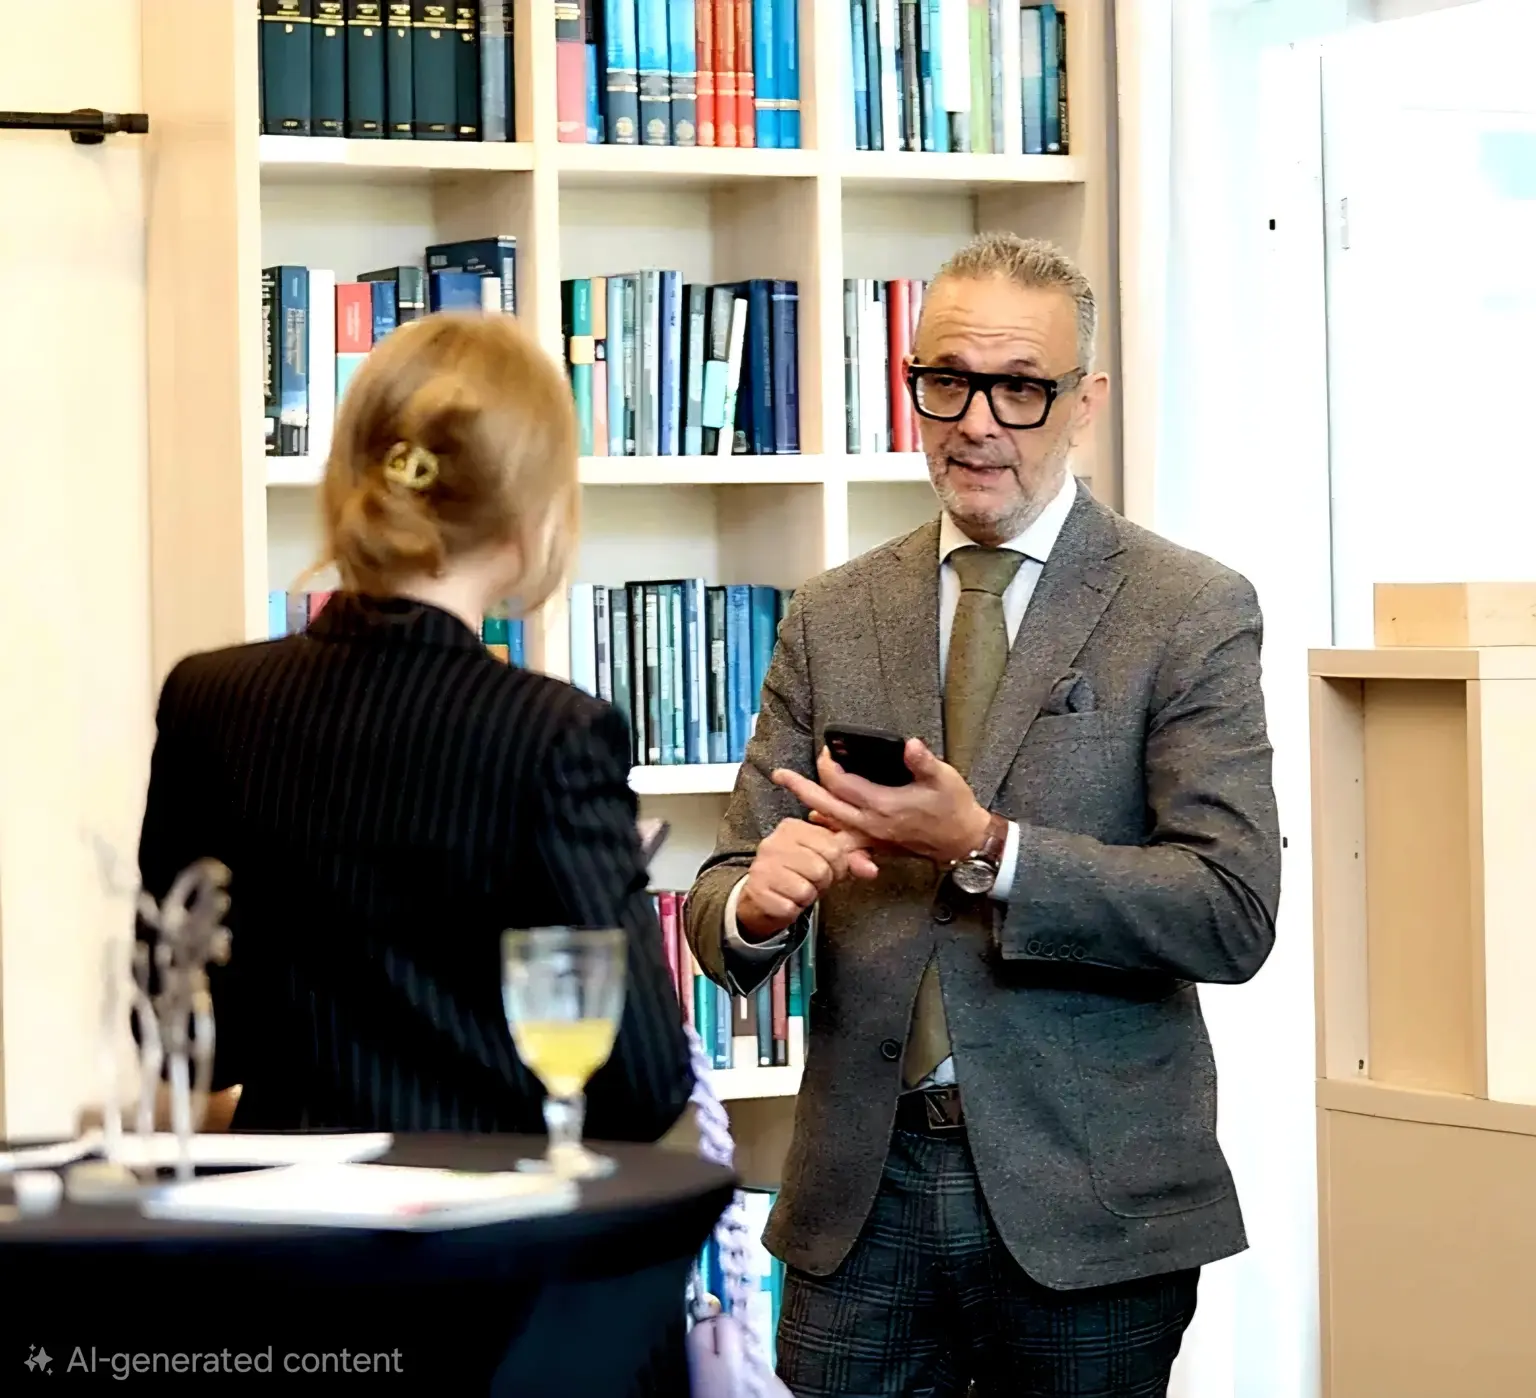
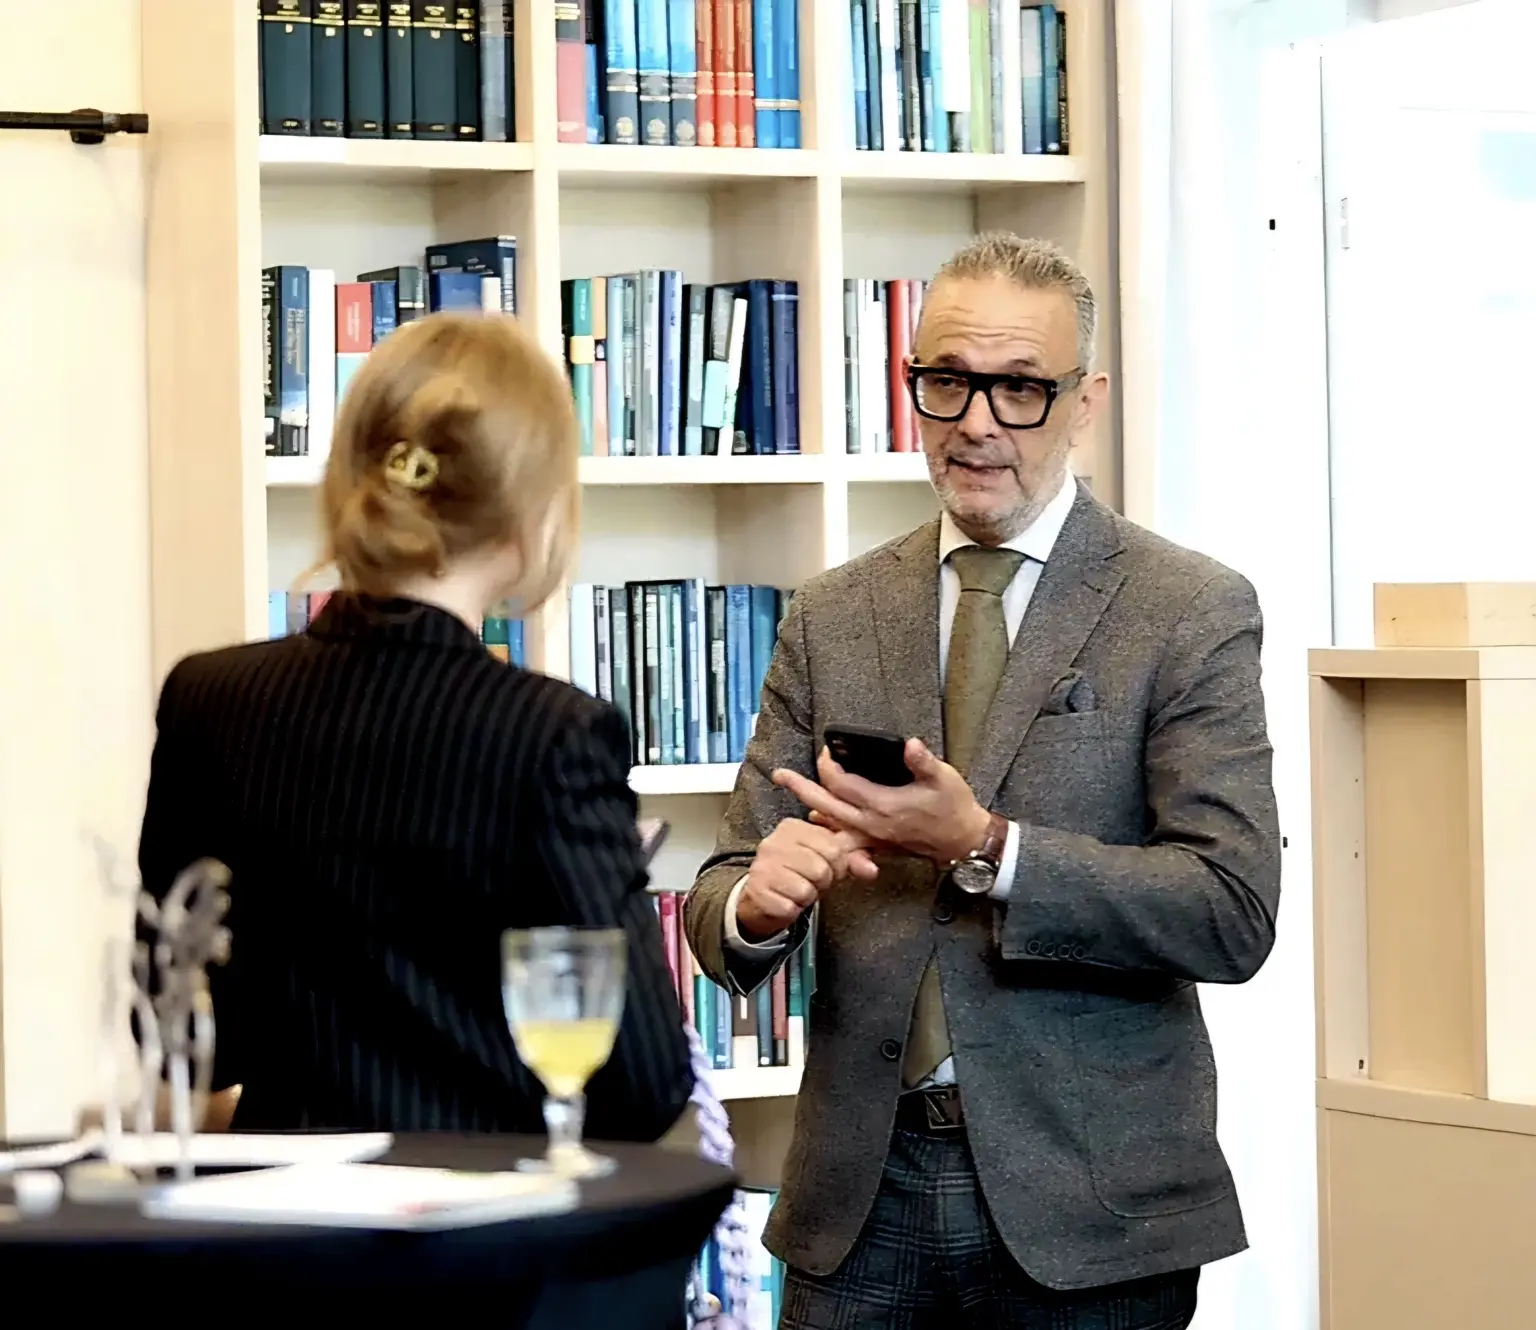
fix: polish gallery, project image and achievements

diff --git a/src/components/sections/Gallery.tsx b/src/components/sections/Gallery.tsx
@@ -2,15 +2,15 @@ import React from 'react';
 import { useLanguage } from '../../context/LanguageContext';
 
 const photos = [
-  { id: 1, src: "/images/gallery/photo-1361.webp", alt: "Speaking at a conference", type: "speaker" },
-  { id: 2, src: "/images/gallery/photo-1362.webp", alt: "Professional meeting", type: "pro" },
-  { id: 3, src: "/images/gallery/photo-1363.webp", alt: "Community event", type: "community" },
-  { id: 4, src: "/images/gallery/photo-1364.webp", alt: "International reception", type: "pro" },
-  { id: 5, src: "/images/gallery/photo-1365.webp", alt: "Industry exhibition", type: "casual" },
-  { id: 6, src: "/images/gallery/photo-1366.webp", alt: "Professional networking", type: "networking" },
-  { id: 7, src: "/images/gallery/photo-1367.webp", alt: "Public talk", type: "speaker" },
-  { id: 8, src: "/images/gallery/photo-1368.webp", alt: "Startup presentation", type: "project" },
-  { id: 9, src: "/images/gallery/photo-1369.webp", alt: "BreakPoint forum", type: "event" },
+  { id: 1, src: "/images/gallery/photo-1361.webp", alt: "Speaking at a conference" },
+  { id: 2, src: "/images/gallery/photo-1362.webp", alt: "Professional meeting" },
+  { id: 3, src: "/images/gallery/photo-1363.webp", alt: "Community event" },
+  { id: 4, src: "/images/gallery/photo-1364.webp", alt: "International reception" },
+  { id: 5, src: "/images/gallery/photo-1365.webp", alt: "Industry exhibition" },
+  { id: 6, src: "/images/gallery/photo-1366.webp", alt: "Professional networking" },
+  { id: 7, src: "/images/gallery/photo-1367.webp", alt: "Public talk" },
+  { id: 8, src: "/images/gallery/photo-1368.webp", alt: "Startup presentation" },
+  { id: 9, src: "/images/gallery/photo-1369.webp", alt: "BreakPoint forum" },
 ];
 
 export const Gallery: React.FC = () => {
@@ -35,18 +35,6 @@ export const Gallery: React.FC = () => {
                 className="w-full h-auto object-cover transition-all duration-700 group-hover:scale-105 opacity-90 group-hover:opacity-100 grayscale group-hover:grayscale-0"
               />
 
-              {/* Tech Overlay corners */}
-              <div className="absolute top-4 left-4 w-2 h-2 border-t border-l border-white/50 opacity-0 group-hover:opacity-100 transition-opacity" />
-              <div className="absolute top-4 right-4 w-2 h-2 border-t border-r border-white/50 opacity-0 group-hover:opacity-100 transition-opacity" />
-              <div className="absolute bottom-4 left-4 w-2 h-2 border-b border-l border-white/50 opacity-0 group-hover:opacity-100 transition-opacity" />
-              <div className="absolute bottom-4 right-4 w-2 h-2 border-b border-r border-white/50 opacity-0 group-hover:opacity-100 transition-opacity" />
-
-              {/* Tag */}
-              <div className="absolute inset-0 bg-gradient-to-t from-black/80 via-transparent to-transparent opacity-0 group-hover:opacity-100 transition-opacity duration-300 flex items-end p-6">
-                <span className="px-3 py-1 bg-white/10 backdrop-blur border border-white/20 rounded-full text-white text-[10px] font-bold uppercase tracking-widest">
-                  {photo.type}
-                </span>
-              </div>
             </div>
           ))}
         </div>

diff --git a/src/components/sections/Timeline.tsx b/src/components/sections/Timeline.tsx
@@ -1,5 +1,5 @@
 import React, { useEffect, useMemo, useState } from 'react';
-import { Award, Calendar, CheckCircle2, ExternalLink, Sparkles, X } from 'lucide-react';
+import { Calendar, CheckCircle2, Sparkles, X } from 'lucide-react';
 import { AnimatePresence, motion } from 'framer-motion';
 import { useLanguage } from '../../context/LanguageContext';
 import { achievements, Achievement, AchievementCategory } from '../../data/achievements';
@@ -18,10 +18,13 @@ export const Timeline: React.FC = () => {
   const [selected, setSelected] = useState<Achievement | null>(null);
   const labels = categoryLabels[language];
 
-  const visibleAchievements = useMemo(
-    () => filter === 'all' ? achievements : achievements.filter((achievement) => achievement.category === filter),
-    [filter],
-  );
+  const visibleAchievements = useMemo(() => {
+    const filtered = filter === 'all'
+      ? achievements
+      : achievements.filter((achievement) => achievement.category === filter);
+
+    return [...filtered].sort((a, b) => Number(b.year) - Number(a.year));
+  }, [filter]);
 
   useEffect(() => {
     if (!selected) return;
@@ -126,18 +129,10 @@ export const Timeline: React.FC = () => {
 
               <div className={`overflow-y-auto p-4 md:p-6 bg-[#181818] grid gap-4 ${selected.files.length > 1 ? 'md:grid-cols-2' : ''}`}>
                 {selected.files.map((file, index) => (
-                  <a key={file} href={file} target="_blank" rel="noopener noreferrer" className="group/file block relative bg-white rounded-xl overflow-hidden">
+                  <a key={file} href={file} target="_blank" rel="noopener noreferrer" className="block relative bg-white rounded-xl overflow-hidden">
                     <img src={file} alt={`${selected.title}${selected.files.length > 1 ? ` — ${index + 1}` : ''}`} loading="lazy" decoding="async" className="w-full max-h-[68vh] object-contain" />
-                    <span className="absolute right-3 bottom-3 inline-flex items-center gap-2 px-3 py-2 rounded-full bg-black/75 text-white text-xs opacity-0 group-hover/file:opacity-100 transition-opacity">
-                      <ExternalLink className="w-3.5 h-3.5" /> Open original
-                    </span>
                   </a>
                 ))}
-              </div>
-
-              <div className="p-4 md:px-6 border-t border-white/10 flex items-center gap-2 text-xs text-gray-400">
-                <Award className="w-4 h-4 text-brand-mint" />
-                {language === 'ru' ? 'Нажмите на документ, чтобы открыть оригинал' : language === 'es' ? 'Haz clic en el documento para abrir el original' : 'Click the document to open the original'}
               </div>
             </motion.div>
           </motion.div>

diff --git a/src/components/sections/TabsSection.tsx b/src/components/sections/TabsSection.tsx
@@ -98,7 +98,7 @@ export const TabsSection: React.FC = () => {
                      </a>
                   </div>
 
-                  <div className="relative min-h-[300px] lg:min-h-full bg-[#1A1A1A] overflow-hidden">
+                  <div className="relative min-h-[300px] lg:min-h-full bg-[#1A1A1A] overflow-hidden rounded-b-[2.35rem] lg:rounded-bl-none lg:rounded-r-[2.35rem] isolate">
                      <div className="absolute inset-0 z-10 bg-[linear-gradient(rgba(0,0,0,0.5)_1px,transparent_1px),linear-gradient(90deg,rgba(0,0,0,0.5)_1px,transparent_1px)] bg-[size:40px_40px] opacity-20 pointer-events-none" />
 
                      <img
@@ -106,7 +106,7 @@ export const TabsSection: React.FC = () => {
                         alt="EcoCareer Lab"
                         loading="lazy"
                         decoding="async"
-                        className="absolute inset-0 w-full h-full object-cover opacity-40 blur-[2px] mix-blend-luminosity group-hover:scale-105 group-hover:opacity-60 group-hover:blur-0 transition-all duration-700"
+                        className="absolute inset-0 w-full h-full object-cover opacity-40 mix-blend-luminosity group-hover:scale-105 group-hover:opacity-60 transition-all duration-700"
                      />
 
                      <div className="absolute inset-0 bg-gradient-to-l from-transparent via-[#111]/50 to-[#111]" />
